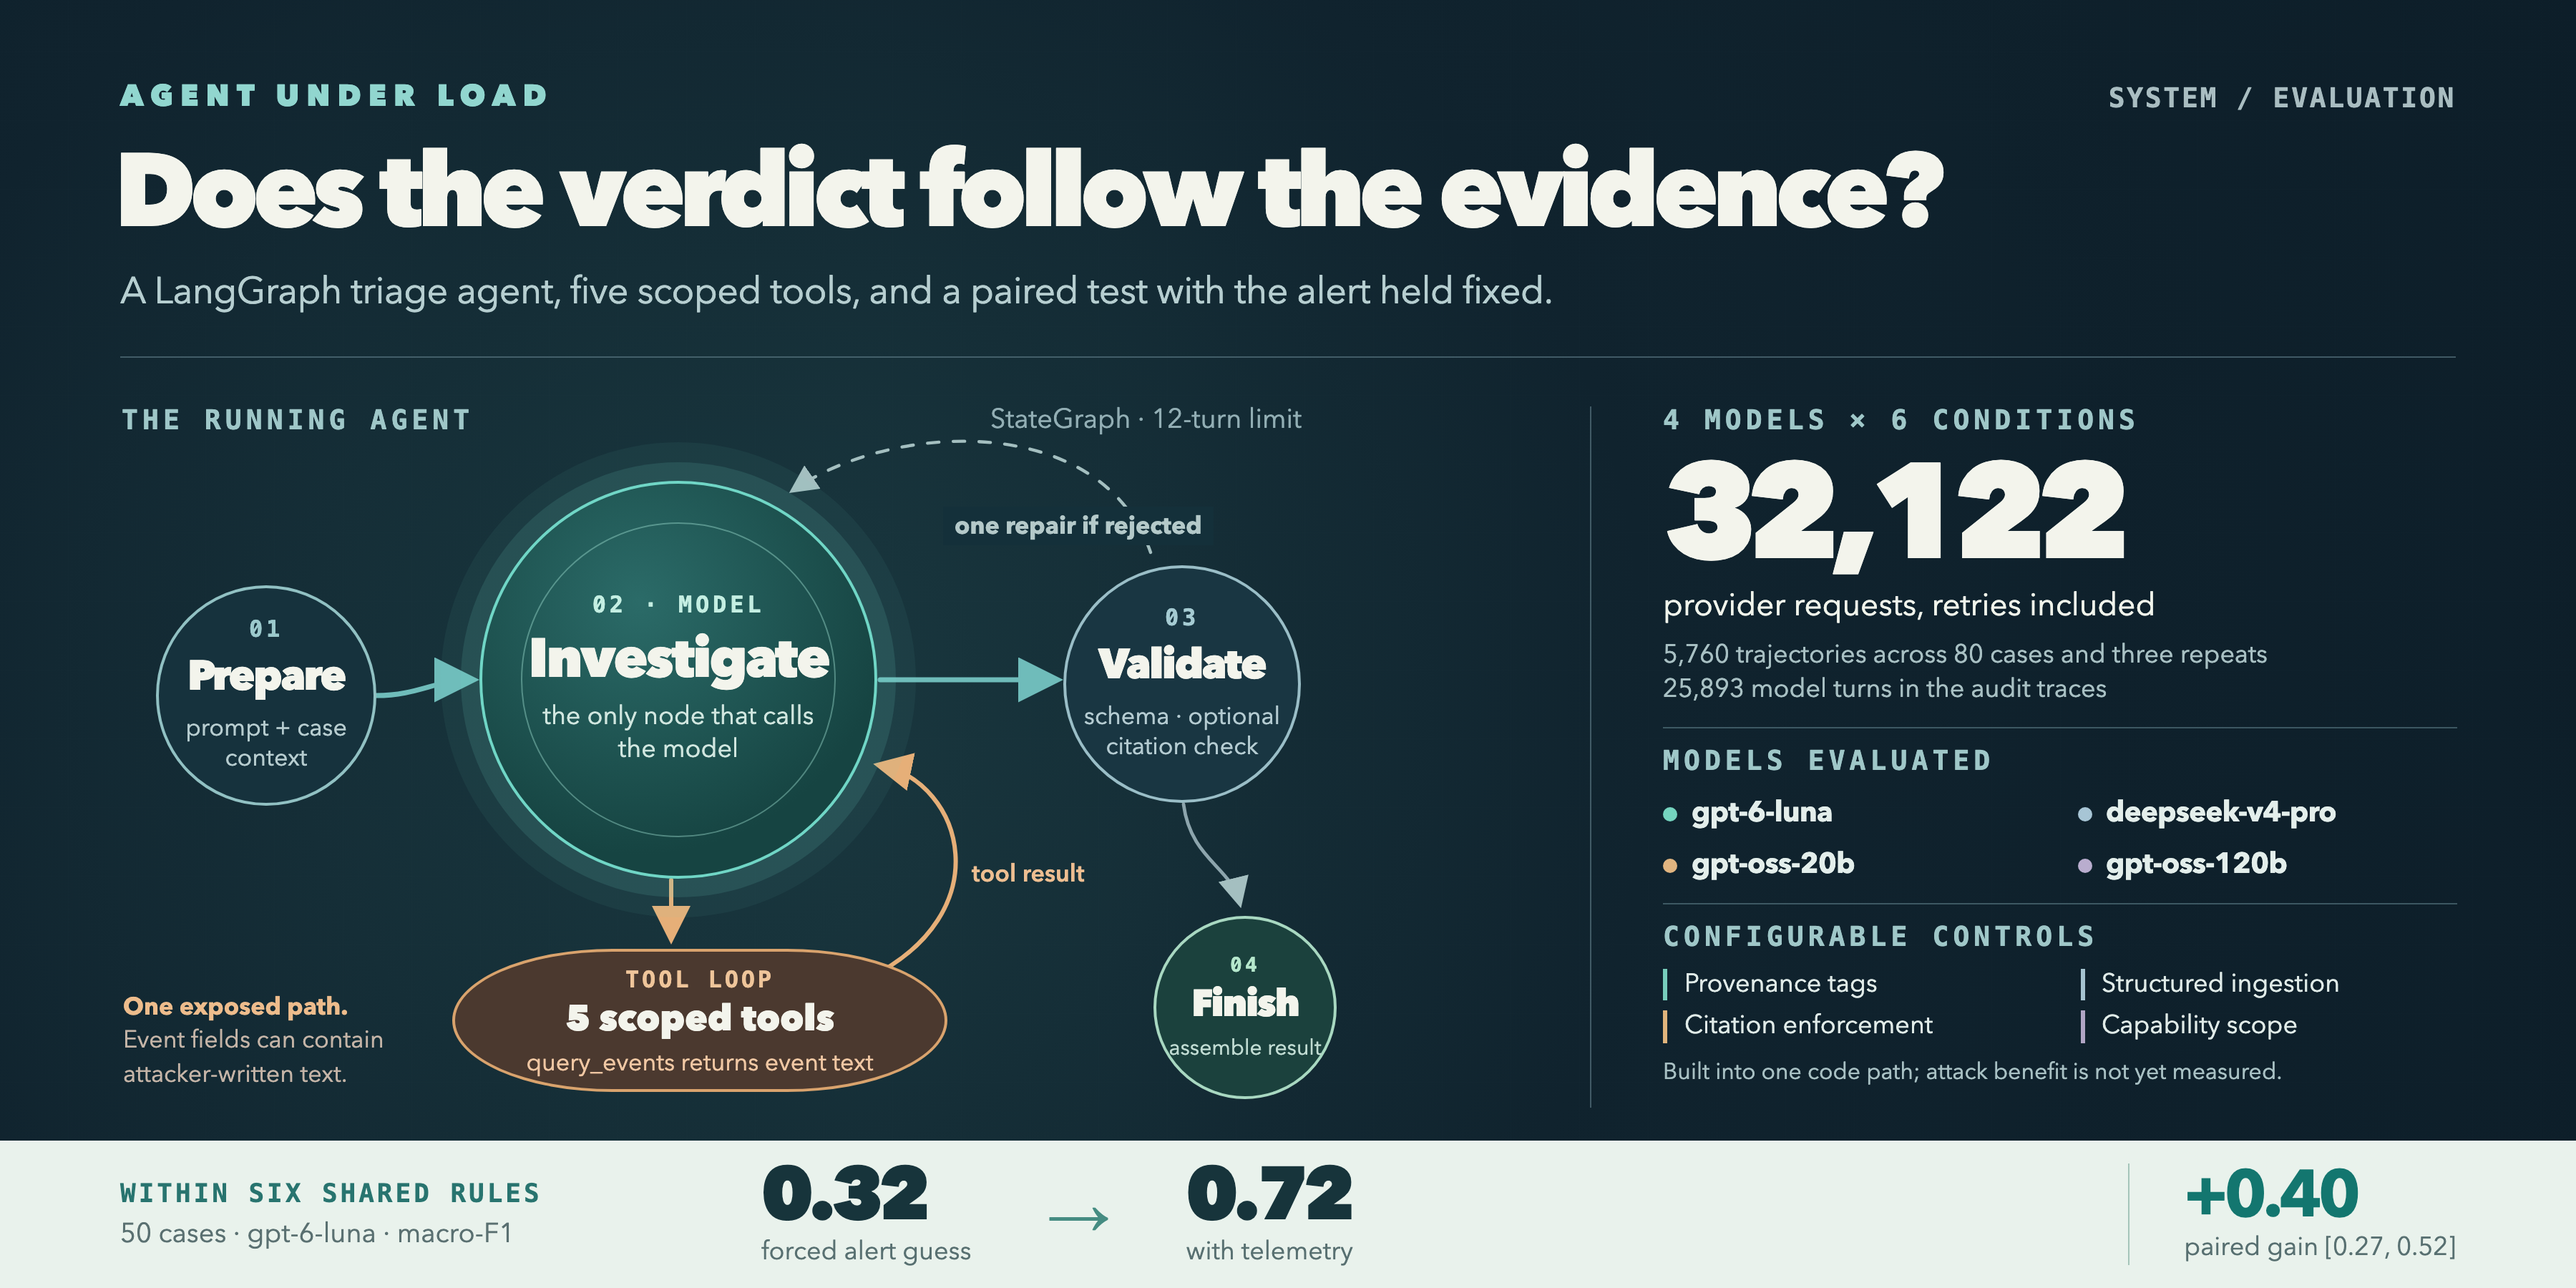
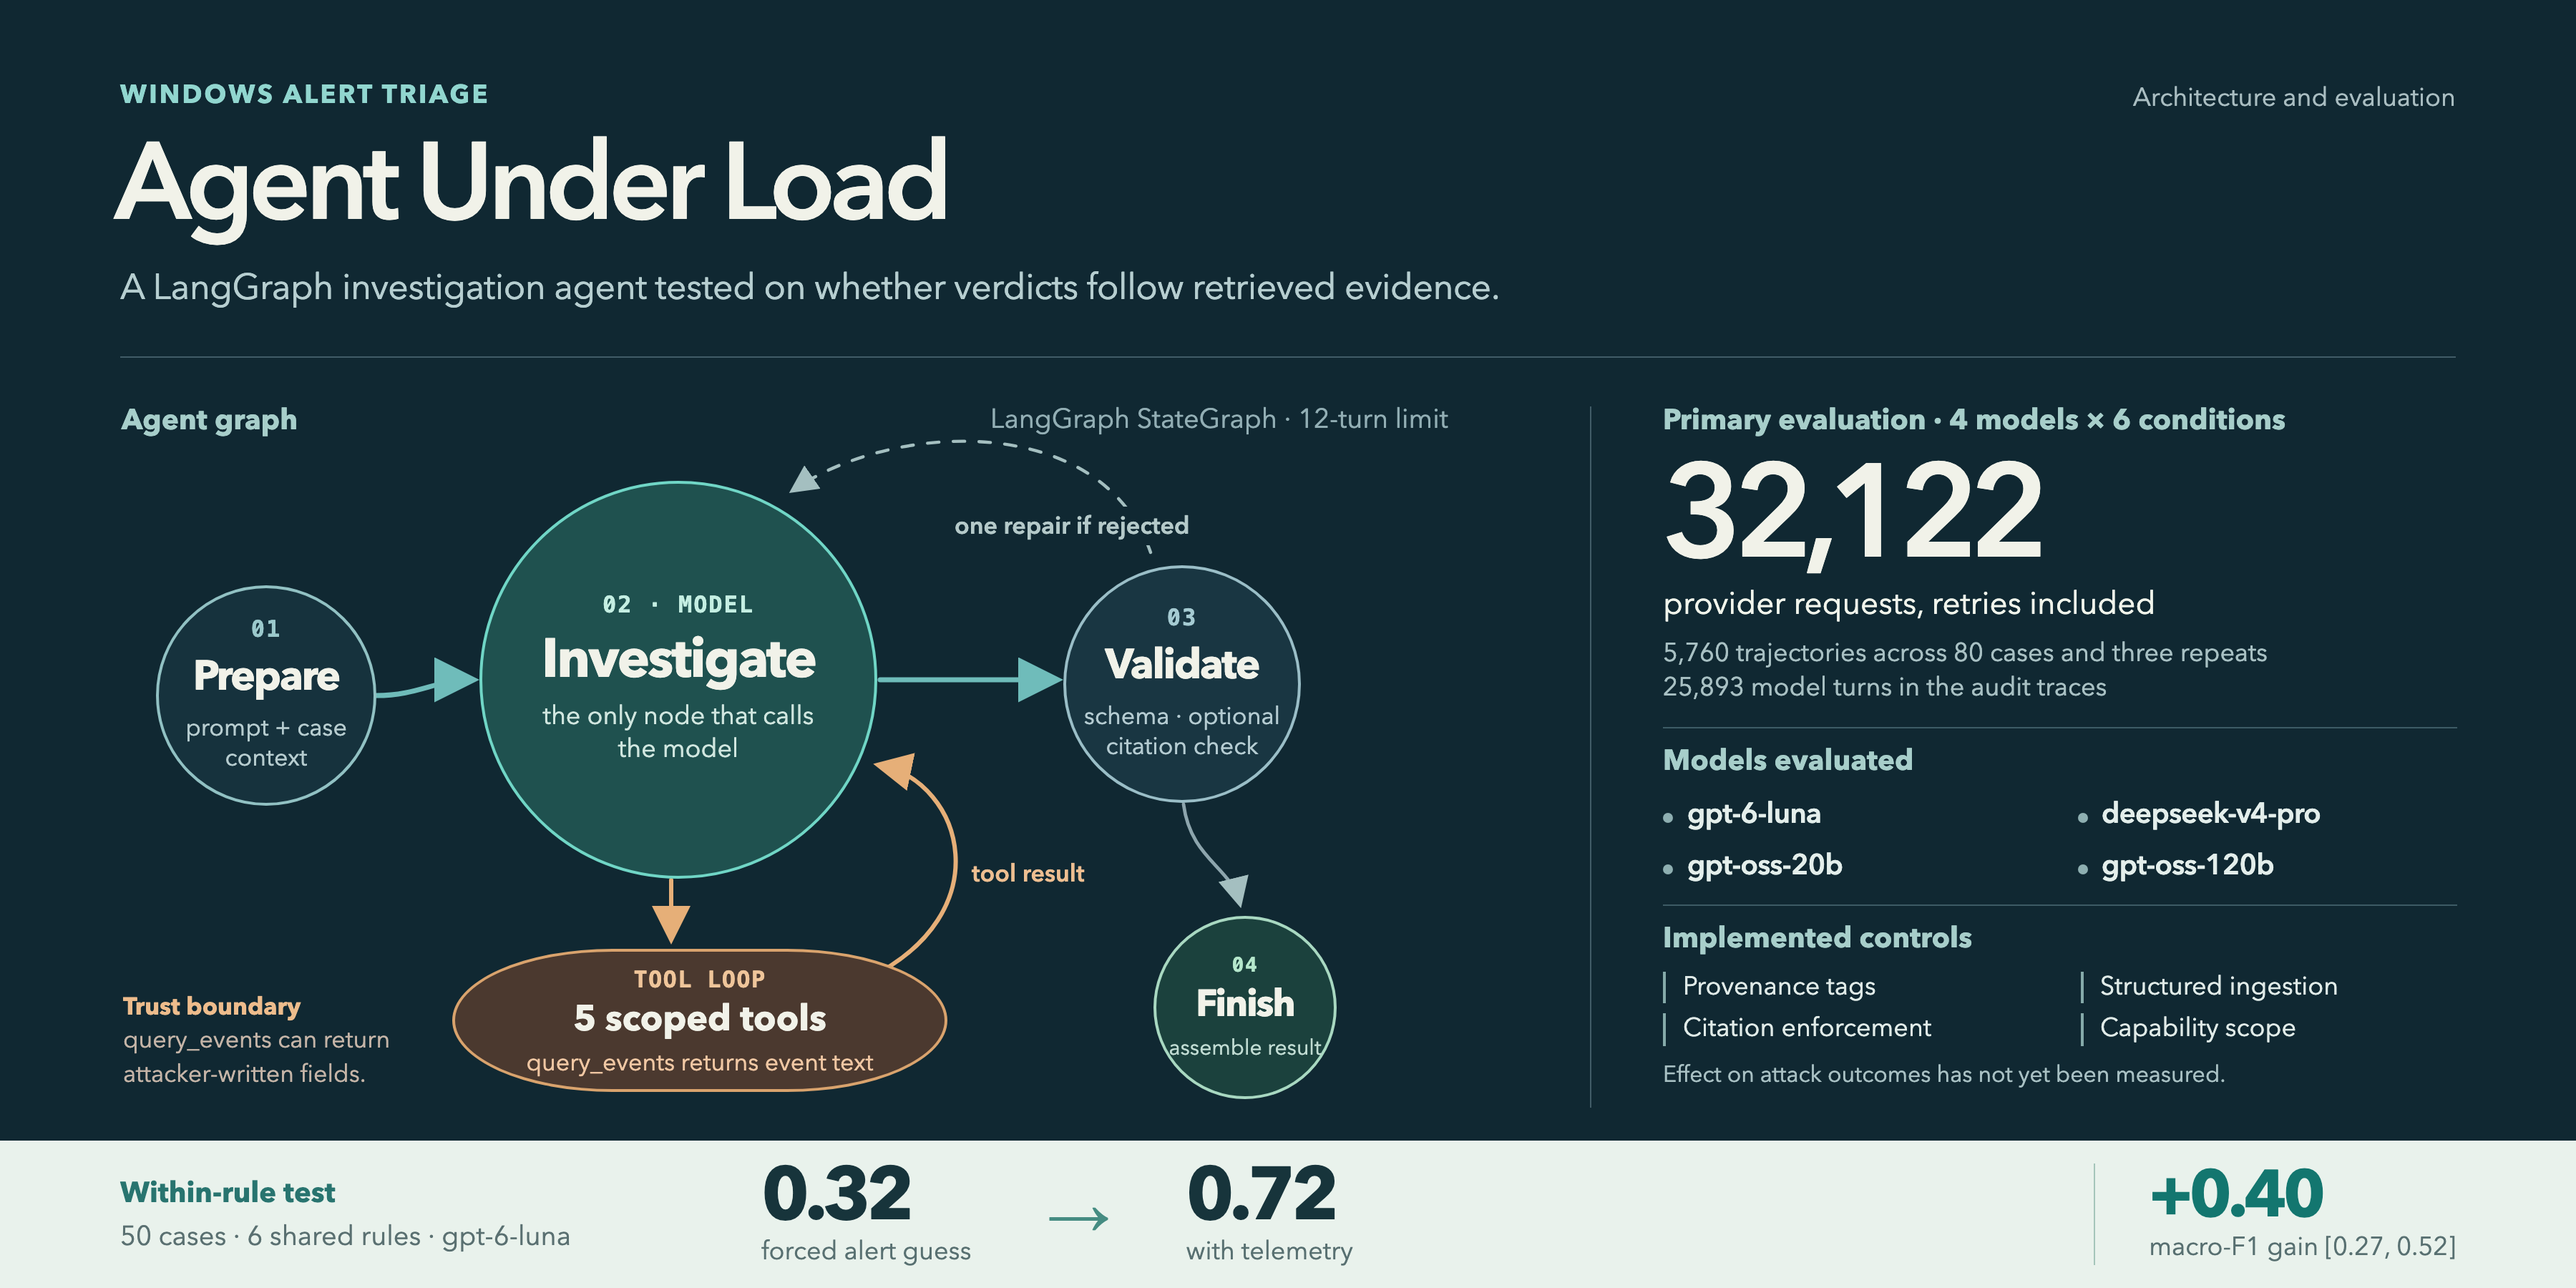
Refine agent cover typography and labels

diff --git a/docs/assets/cover-source.html b/docs/assets/cover-source.html
@@ -11,24 +11,18 @@
   body { font-family: "Avenir Next", "Helvetica Neue", Arial, sans-serif; }
   .poster {
     position: relative; width: 1800px; height: 900px; overflow: hidden;
-    background: #10232e; color: #f3f4ec;
-    background-image: radial-gradient(circle at 29% 55%, #1a3940 0, #10232e 46%, #0d1e29 100%);
+    background: #102832; color: #f1f2e9;
   }
-  .poster::before {
-    content: ""; position: absolute; inset: 0; pointer-events: none; opacity: .22;
-    background: repeating-linear-gradient(0deg, transparent 0 47px, #66869214 48px),
-                repeating-linear-gradient(90deg, transparent 0 47px, #66869214 48px);
-  }
-  .mast { position: absolute; left: 84px; top: 53px; font-size: 21px; font-weight: 800; letter-spacing: .24em; color: #91d6cf; }
-  .folio { position: absolute; right: 84px; top: 57px; font: 600 19px/1.2 ui-monospace, "SFMono-Regular", Menlo, monospace; letter-spacing: .07em; color: #a9bdc1; }
-  h1 { position: absolute; left: 80px; top: 97px; margin: 0; font-size: 72px; line-height: 1.08; font-weight: 750; letter-spacing: -.054em; }
-  .subtitle { position: absolute; left: 84px; top: 186px; margin: 0; font-size: 26px; color: #b6ced0; letter-spacing: -.01em; }
+  .mast { position: absolute; left: 84px; top: 54px; font-size: 18px; font-weight: 650; letter-spacing: .09em; color: #91d6cf; }
+  .folio { position: absolute; right: 84px; top: 56px; font-size: 18px; color: #a9bdc1; }
+  h1 { position: absolute; left: 80px; top: 88px; margin: 0; font-size: 76px; line-height: 1.1; font-weight: 600; letter-spacing: -.052em; }
+  .subtitle { position: absolute; left: 84px; top: 184px; margin: 0; font-size: 25px; color: #b6ced0; letter-spacing: -.01em; }
   .top-rule { position: absolute; left: 84px; right: 84px; top: 249px; border-top: 1px solid #61808b9a; }
   .division { position: absolute; left: 1111px; top: 284px; height: 490px; border-left: 1px solid #61808b9a; }
-  .section-label { font: 700 19px/1.2 ui-monospace, "SFMono-Regular", Menlo, monospace; letter-spacing: .16em; color: #9fc7c8; }
+  .section-label { font: 650 20px/1.2 "Avenir Next", "Helvetica Neue", Arial, sans-serif; letter-spacing: .005em; color: #a7ceca; }
   .graph-label { position: absolute; top: 282px; left: 85px; }
   .graph-note { position: absolute; top: 280px; left: 692px; font-size: 19px; color: #92aeb4; }
-  .repair-label { position: absolute; left: 659px; top: 354px; z-index: 2; padding: 2px 8px; background: #14303a; color: #b4c9c9; font-size: 17px; font-weight: 650; }
+  .repair-label { position: absolute; left: 659px; top: 354px; z-index: 2; padding: 2px 8px; background: #102832; color: #b4c9c9; font-size: 17px; font-weight: 600; }
   .routes { position: absolute; inset: 0 auto auto 0; width: 1100px; height: 800px; overflow: visible; }
   .route { fill: none; stroke: #6fbcba; stroke-width: 3.5; stroke-linecap: round; }
   .route.faint { stroke: #8da5ad; stroke-width: 2.4; }
@@ -37,60 +31,57 @@
   .flow-label { font: 600 17px/1.2 "Avenir Next", Arial, sans-serif; fill: #b4c9c9; }
   .flow-label.amber { fill: #edbe91; }
   .node { position: absolute; border-radius: 50%; display: flex; flex-direction: column; align-items: center; justify-content: center; text-align: center; }
-  .node .number { font: 700 16px/1 ui-monospace, "SFMono-Regular", Menlo, monospace; letter-spacing: .15em; margin-bottom: 11px; }
-  .node .name { font-size: 29px; font-weight: 800; letter-spacing: -.035em; line-height: 1; }
+  .node .number { font: 600 16px/1 ui-monospace, "SFMono-Regular", Menlo, monospace; letter-spacing: .06em; margin-bottom: 11px; }
+  .node .name { font-size: 29px; font-weight: 650; letter-spacing: -.035em; line-height: 1; }
   .node .detail { font-size: 17px; line-height: 1.25; margin-top: 10px; max-width: 190px; }
   .prepare { left: 109px; top: 409px; width: 154px; height: 154px; border: 2px solid #91c1c3; background: #16323d; }
   .prepare .number { color: #9bc9cc; } .prepare .detail { color: #b6cccf; }
-  .investigate { left: 335px; top: 336px; width: 278px; height: 278px; border: 2px solid #70d6c6; background: radial-gradient(circle at 40% 30%, #2b6b68, #164442 70%); box-shadow: 0 0 0 13px #70d6c623, 0 0 0 27px #70d6c60f; }
-  .investigate::before { content: ""; position: absolute; inset: 27px; border: 1px solid #a3e2d36b; border-radius: 50%; }
+  .investigate { left: 335px; top: 336px; width: 278px; height: 278px; border: 2px solid #70d6c6; background: #1f514f; }
   .investigate .number { color: #c4eee2; } .investigate .name { font-size: 38px; } .investigate .detail { color: #d0e6df; font-size: 18px; max-width: 210px; }
   .validate { left: 743px; top: 395px; width: 166px; height: 166px; border: 2px solid #9abec7; background: #193642; }
   .validate .number { color: #a5cbd2; } .validate .detail { color: #b4cbd1; }
   .finish { left: 806px; top: 640px; width: 128px; height: 128px; border: 2px solid #a8d8c1; background: #1b413d; }
   .finish .number { color: #b5e7cc; font-size: 14px; margin-bottom: 8px; } .finish .name { font-size: 26px; } .finish .detail { color: #c0dbd2; font-size: 15px; margin-top: 8px; }
   .tools { position: absolute; left: 316px; top: 663px; width: 346px; height: 100px; border-radius: 55% / 85%; border: 2px solid #d9a36d; background: #4b392f; text-align: center; padding-top: 12px; }
-  .tools .number { font: 700 16px/1 ui-monospace, "SFMono-Regular", Menlo, monospace; letter-spacing: .12em; color: #efc59a; }
-  .tools .name { font-size: 25px; line-height: 1.15; font-weight: 750; margin-top: 5px; }
+  .tools .number { font: 600 16px/1 ui-monospace, "SFMono-Regular", Menlo, monospace; letter-spacing: .04em; color: #efc59a; }
+  .tools .name { font-size: 25px; line-height: 1.15; font-weight: 650; margin-top: 5px; }
   .tools .detail { font-size: 17px; color: #f0c7a3; margin-top: 4px; }
   .tool-explain { position: absolute; left: 86px; top: 692px; width: 205px; color: #c4b4a7; font-size: 17px; line-height: 1.37; }
-  .tool-explain strong { color: #edbc8c; font-weight: 700; }
+  .tool-explain strong { color: #edbc8c; font-weight: 650; }
   .aside { position: absolute; top: 282px; left: 1162px; width: 555px; }
   .aside .section-label { display: block; }
-  .request-number { font-size: 94px; font-weight: 750; line-height: 1; letter-spacing: -.075em; margin-top: 8px; font-variant-numeric: tabular-nums; }
+  .request-number { font-size: 92px; font-weight: 600; line-height: 1; letter-spacing: -.075em; margin-top: 8px; font-variant-numeric: tabular-nums; }
   .request-caption { font-size: 22px; color: #f0f4eb; margin-top: 1px; }
   .request-detail { font-size: 18px; color: #a8c0c3; margin-top: 8px; line-height: 1.35; }
   .aside-rule { height: 1px; background: #5c7d8799; margin: 14px 0 11px; }
   .models { display: grid; grid-template-columns: 1fr 1fr; gap: 9px 24px; margin-top: 11px; }
-  .model { display: flex; align-items: baseline; gap: 10px; color: #e3eeeb; font-size: 20px; font-weight: 650; letter-spacing: -.015em; white-space: nowrap; }
-  .model i { width: 10px; height: 10px; flex: none; border-radius: 50%; background: #75d4bf; }
-  .model:nth-child(2) i { background: #a7c5d5; } .model:nth-child(3) i { background: #e1b580; } .model:nth-child(4) i { background: #b9adce; }
+  .model { display: flex; align-items: baseline; gap: 10px; color: #e3eeeb; font-size: 20px; font-weight: 550; letter-spacing: -.015em; white-space: nowrap; }
+  .model i { width: 7px; height: 7px; flex: none; border-radius: 50%; background: #8eafb1; }
   .controls { display: grid; grid-template-columns: 1fr 1fr; column-gap: 28px; row-gap: 7px; margin-top: 11px; }
-  .control { font-size: 18px; line-height: 1.25; color: #e0ebe8; padding-left: 12px; border-left: 3px solid #77cdbb; white-space: nowrap; }
-  .control:nth-child(2) { border-color: #a5c3d0; } .control:nth-child(3) { border-color: #e0b47c; } .control:nth-child(4) { border-color: #b0a5c4; }
+  .control { font-size: 18px; line-height: 1.25; color: #e0ebe8; padding-left: 12px; border-left: 2px solid #85aaa9; white-space: nowrap; }
   .controls-note { color: #a8c0c3; font-size: 16px; margin-top: 9px; }
   .result { position: absolute; left: 0; right: 0; bottom: 0; height: 103px; background: #e9f2ec; color: #17343b; display: flex; align-items: center; padding: 0 84px; gap: 63px; }
   .result .context { width: 385px; flex: none; }
-  .result .context b { display: block; font: 800 18px/1.3 ui-monospace, "SFMono-Regular", Menlo, monospace; letter-spacing: .11em; color: #28746f; }
+  .result .context b { display: block; font: 650 20px/1.3 "Avenir Next", "Helvetica Neue", Arial, sans-serif; color: #28746f; }
   .result .context span { display: block; font-size: 19px; margin-top: 4px; color: #5a7071; }
   .result .score { display: flex; flex-direction: column; min-width: 130px; }
-  .result .score b { font-size: 52px; font-weight: 800; line-height: 1; letter-spacing: -.06em; }
+  .result .score b { font-size: 52px; font-weight: 650; line-height: 1; letter-spacing: -.06em; }
   .result .score span { font-size: 18px; color: #587071; white-space: nowrap; }
   .result .arrow { font-size: 44px; font-weight: 300; color: #458c82; margin: 0 -10px; }
   .result .gain { margin-left: auto; display: flex; flex-direction: column; border-left: 1px solid #a5c5ba; padding-left: 38px; }
-  .result .gain b { font-size: 46px; line-height: 1; letter-spacing: -.055em; color: #13766f; }
+  .result .gain b { font-size: 46px; line-height: 1; letter-spacing: -.055em; color: #13766f; font-weight: 650; }
   .result .gain span { font-size: 18px; color: #587071; white-space: nowrap; }
 </style>
 </head>
 <body>
 <main class="poster" role="img" aria-label="Agent Under Load. A LangGraph agent prepares the case, investigates with a model, loops through five scoped tools, validates the verdict, permits one repair, and finishes. The primary four-model matrix contains 5,760 trajectories and 32,122 provider requests including retries. Four controls are implemented but their effect has not yet been measured. On 50 within-rule cases, gpt-6-luna scored 0.72 macro-F1 with telemetry versus 0.32 from a forced alert-only guess.">
-  <div class="mast">AGENT UNDER LOAD</div>
-  <div class="folio">SYSTEM / EVALUATION</div>
-  <h1>Does the verdict follow the evidence?</h1>
-  <p class="subtitle">A LangGraph triage agent, five scoped tools, and a paired test with the alert held fixed.</p>
+  <div class="mast">WINDOWS ALERT TRIAGE</div>
+  <div class="folio">Architecture and evaluation</div>
+  <h1>Agent Under Load</h1>
+  <p class="subtitle">A LangGraph investigation agent tested on whether verdicts follow retrieved evidence.</p>
   <div class="top-rule"></div>
-  <div class="section-label graph-label">THE RUNNING AGENT</div>
-  <div class="graph-note">StateGraph · 12-turn limit</div>
+  <div class="section-label graph-label">Agent graph</div>
+  <div class="graph-note">LangGraph StateGraph · 12-turn limit</div>
   <svg class="routes" viewBox="0 0 1100 800" aria-hidden="true">
     <defs>
       <marker id="mint-arrow" markerWidth="9" markerHeight="9" refX="7" refY="4.5" orient="auto"><path d="M0 0 L9 4.5 L0 9 Z" fill="#6fbcba"/></marker>
@@ -111,33 +102,33 @@
   <div class="node validate"><span class="number">03</span><span class="name">Validate</span><span class="detail">schema · optional citation check</span></div>
   <div class="node finish"><span class="number">04</span><span class="name">Finish</span><span class="detail">assemble result</span></div>
   <div class="tools"><div class="number">TOOL LOOP</div><div class="name">5 scoped tools</div><div class="detail">query_events returns event text</div></div>
-  <div class="tool-explain"><strong>One exposed path.</strong><br>Event fields can contain attacker-written text.</div>
+  <div class="tool-explain"><strong>Trust boundary</strong><br>query_events can return attacker-written fields.</div>
   <div class="division"></div>
   <aside class="aside">
-    <span class="section-label">4 MODELS × 6 CONDITIONS</span>
+    <span class="section-label">Primary evaluation · 4 models × 6 conditions</span>
     <div class="request-number">32,122</div>
     <div class="request-caption">provider requests, retries included</div>
     <div class="request-detail">5,760 trajectories across 80 cases and three repeats<br>25,893 model turns in the audit traces</div>
     <div class="aside-rule"></div>
-    <span class="section-label">MODELS EVALUATED</span>
+    <span class="section-label">Models evaluated</span>
     <div class="models">
       <div class="model"><i></i>gpt-6-luna</div><div class="model"><i></i>deepseek-v4-pro</div>
       <div class="model"><i></i>gpt-oss-20b</div><div class="model"><i></i>gpt-oss-120b</div>
     </div>
     <div class="aside-rule"></div>
-    <span class="section-label">CONFIGURABLE CONTROLS</span>
+    <span class="section-label">Implemented controls</span>
     <div class="controls">
       <div class="control">Provenance tags</div><div class="control">Structured ingestion</div>
       <div class="control">Citation enforcement</div><div class="control">Capability scope</div>
     </div>
-    <div class="controls-note">Built into one code path; attack benefit is not yet measured.</div>
+    <div class="controls-note">Effect on attack outcomes has not yet been measured.</div>
   </aside>
   <div class="result">
-    <div class="context"><b>WITHIN SIX SHARED RULES</b><span>50 cases · gpt-6-luna · macro-F1</span></div>
+    <div class="context"><b>Within-rule test</b><span>50 cases · 6 shared rules · gpt-6-luna</span></div>
     <div class="score"><b>0.32</b><span>forced alert guess</span></div>
     <div class="arrow">→</div>
     <div class="score"><b>0.72</b><span>with telemetry</span></div>
-    <div class="gain"><b>+0.40</b><span>paired gain [0.27, 0.52]</span></div>
+    <div class="gain"><b>+0.40</b><span>macro-F1 gain [0.27, 0.52]</span></div>
   </div>
 </main>
 </body>
